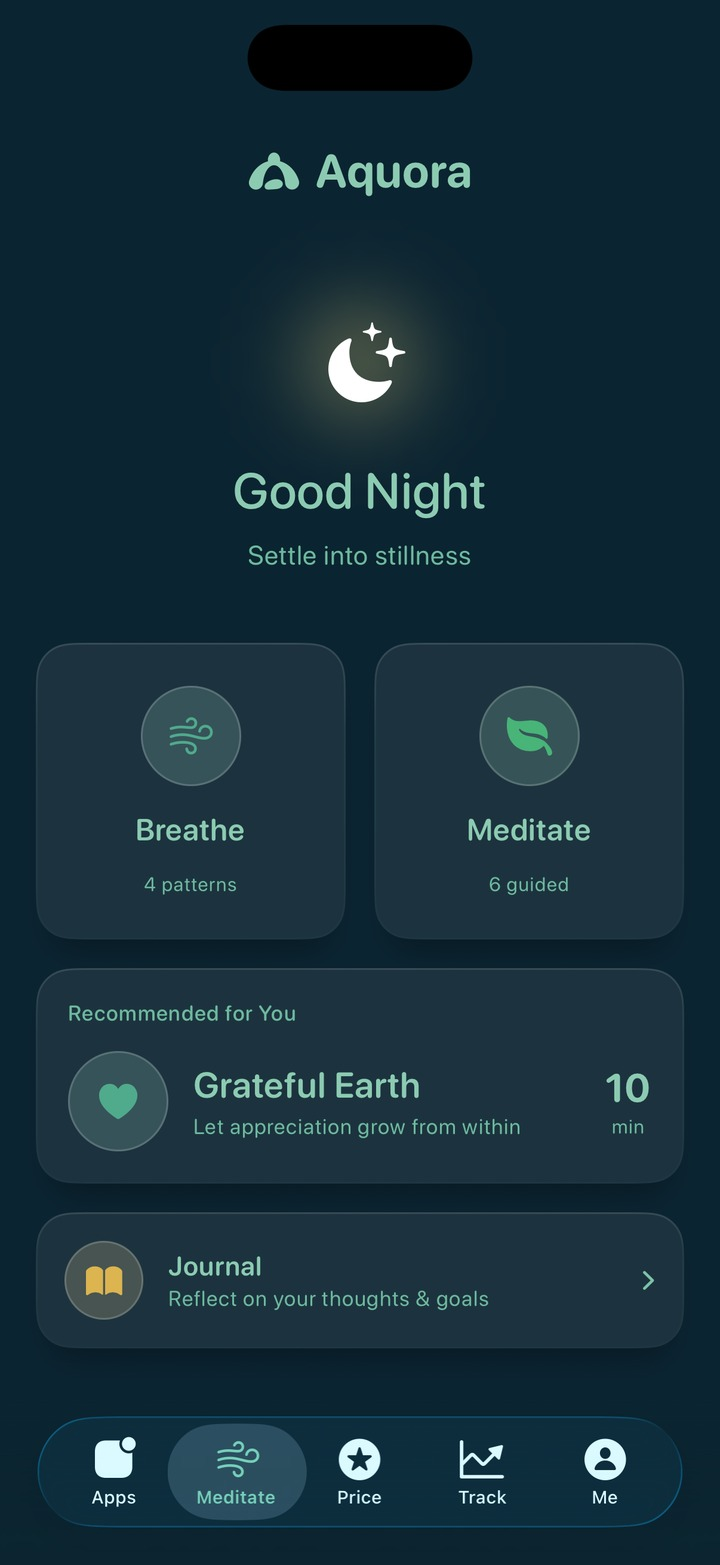
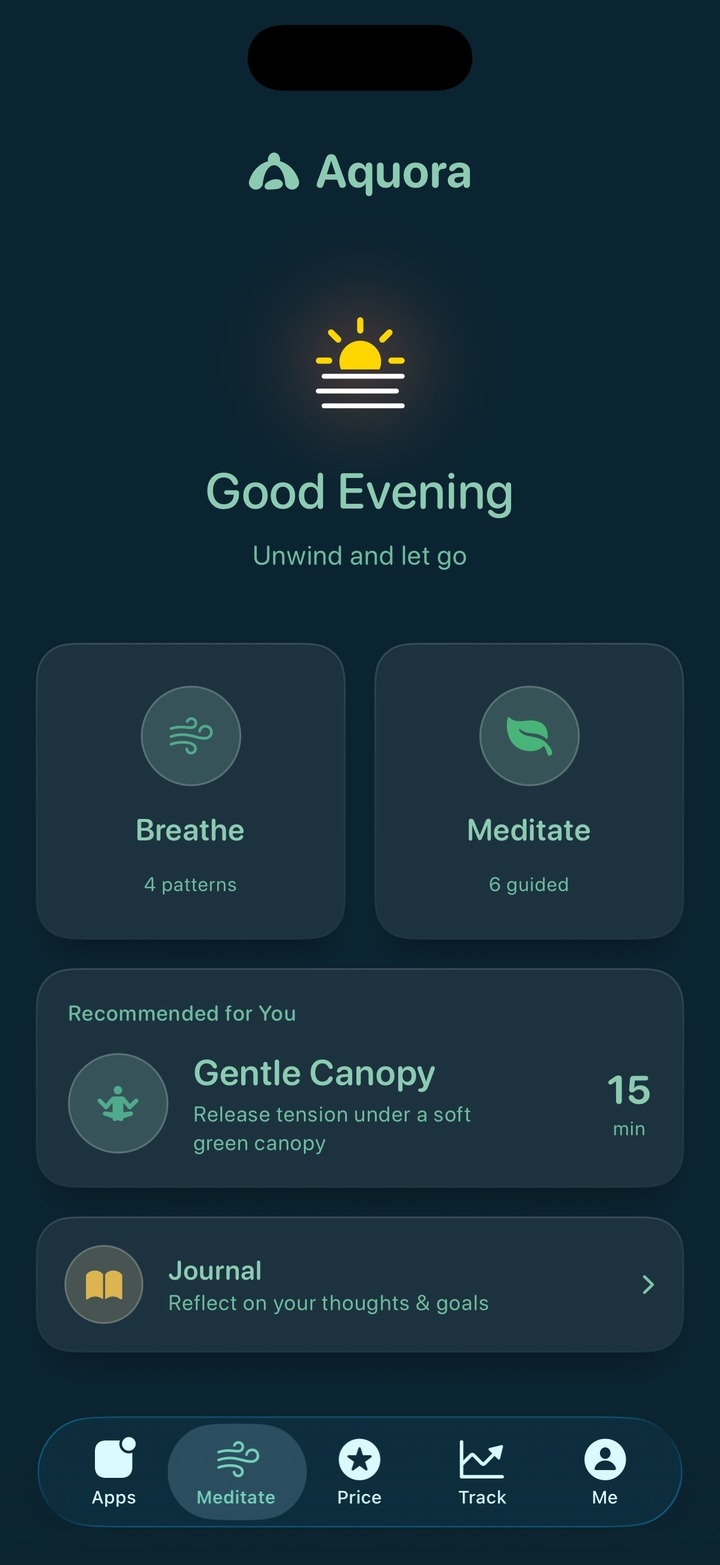
Homepage Meditate screenshots: evening state (Good Evening) restored; alt restored

diff --git a/index.html b/index.html
@@ -160,7 +160,7 @@ and _data/archetypes.yml; no prices anywhere.
           <h3 class="h-card">Meditation &amp; Breathing</h3>
           <p>Four breathing patterns, six guided meditations, seven ambient sounds, and a journal written only for you. Not a task — a small clearing in your day.</p>
           <div class="chips" aria-hidden="true"><span>4 patterns</span><span>6 guided</span><span>7 sounds</span></div>
-          <div class="phone"><div class="screen"><img class="img-light" src="{{ site.baseurl }}/assets/img/app/en/light/meditate.jpg" alt="Aquora Meditate tab: Good night, breathe and meditate" loading="lazy"><img aria-hidden="true" class="img-dark" src="{{ site.baseurl }}/assets/img/app/en/dark/meditate.jpg" alt="" loading="lazy"></div></div>
+          <div class="phone"><div class="screen"><img class="img-light" src="{{ site.baseurl }}/assets/img/app/en/light/meditate.jpg" alt="Aquora Meditate tab: Good evening, breathe and meditate" loading="lazy"><img aria-hidden="true" class="img-dark" src="{{ site.baseurl }}/assets/img/app/en/dark/meditate.jpg" alt="" loading="lazy"></div></div>
         </article>
 
       </div>
